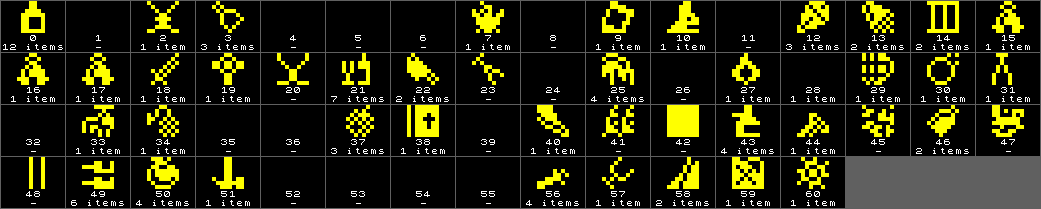
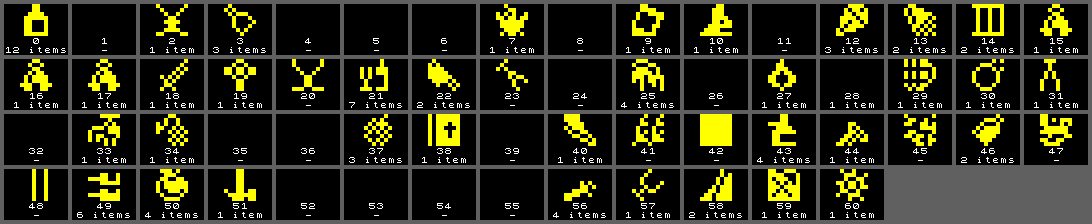
zxgfx compose: grid lines one scaled pixel wide, as the sheets were; JSW GIFs regenerated
The GIFs had 1-pixel borders next to sheets with 4-pixel ones; compose now
reproduces the old sheet output byte for byte (willy.png unchanged).

Claude-Session: https://claude.ai/code/session_01MTu5szPkWNLWiGFHvjqkAB

diff --git a/examples/jet-set-willy/tools/zxgfx.py b/examples/jet-set-willy/tools/zxgfx.py
@@ -101,20 +101,22 @@ def draw_text(canvas, font, text, ox, oy, colour=(0xFF, 0xFF, 0xFF)):
 
 def compose(graphics, cols, scale, labels=None):
     """Lay out graphics (rows of colour pixels, all the same size) in a grid,
-    scaled, with grid lines; labels (one string per graphic, lines split by
-    '/') are printed with the ROM font under each graphic."""
+    scaled, with grid lines as wide as one scaled pixel; labels (one string
+    per graphic, lines split by '/') are printed with the ROM font under each
+    graphic."""
     gh, gw = len(graphics[0]), len(graphics[0][0])
     cols = min(cols, len(graphics))
     nrows = (len(graphics) + cols - 1) // cols
     lines = [str(t).split('/') for t in labels] if labels else []
     nlines = max((len(x) for x in lines), default=0)
+    b = scale
     cw = max([gw * scale] + [8 * len(t) for x in lines for t in x])
     ch = gh * scale + (9 * nlines + 1 if nlines else 0)
-    width, height = cols * (cw + 1) + 1, nrows * (ch + 1) + 1
+    width, height = cols * (cw + b) + b, nrows * (ch + b) + b
     canvas = [[GRID] * width for _ in range(height)]
     font = load_font() if lines else None
     for n, px in enumerate(graphics):
-        ox, oy = 1 + (n % cols) * (cw + 1), 1 + (n // cols) * (ch + 1)
+        ox, oy = b + (n % cols) * (cw + b), b + (n // cols) * (ch + b)
         for y in range(oy, oy + ch):
             canvas[y][ox:ox + cw] = [(0, 0, 0)] * cw
         gx = ox + (cw - gw * scale) // 2

diff --git a/tools/zxgfx.py b/tools/zxgfx.py
@@ -101,20 +101,22 @@ def draw_text(canvas, font, text, ox, oy, colour=(0xFF, 0xFF, 0xFF)):
 
 def compose(graphics, cols, scale, labels=None):
     """Lay out graphics (rows of colour pixels, all the same size) in a grid,
-    scaled, with grid lines; labels (one string per graphic, lines split by
-    '/') are printed with the ROM font under each graphic."""
+    scaled, with grid lines as wide as one scaled pixel; labels (one string
+    per graphic, lines split by '/') are printed with the ROM font under each
+    graphic."""
     gh, gw = len(graphics[0]), len(graphics[0][0])
     cols = min(cols, len(graphics))
     nrows = (len(graphics) + cols - 1) // cols
     lines = [str(t).split('/') for t in labels] if labels else []
     nlines = max((len(x) for x in lines), default=0)
+    b = scale
     cw = max([gw * scale] + [8 * len(t) for x in lines for t in x])
     ch = gh * scale + (9 * nlines + 1 if nlines else 0)
-    width, height = cols * (cw + 1) + 1, nrows * (ch + 1) + 1
+    width, height = cols * (cw + b) + b, nrows * (ch + b) + b
     canvas = [[GRID] * width for _ in range(height)]
     font = load_font() if lines else None
     for n, px in enumerate(graphics):
-        ox, oy = 1 + (n % cols) * (cw + 1), 1 + (n // cols) * (ch + 1)
+        ox, oy = b + (n % cols) * (cw + b), b + (n // cols) * (ch + b)
         for y in range(oy, oy + ch):
             canvas[y][ox:ox + cw] = [(0, 0, 0)] * cw
         gx = ox + (cw - gw * scale) // 2
